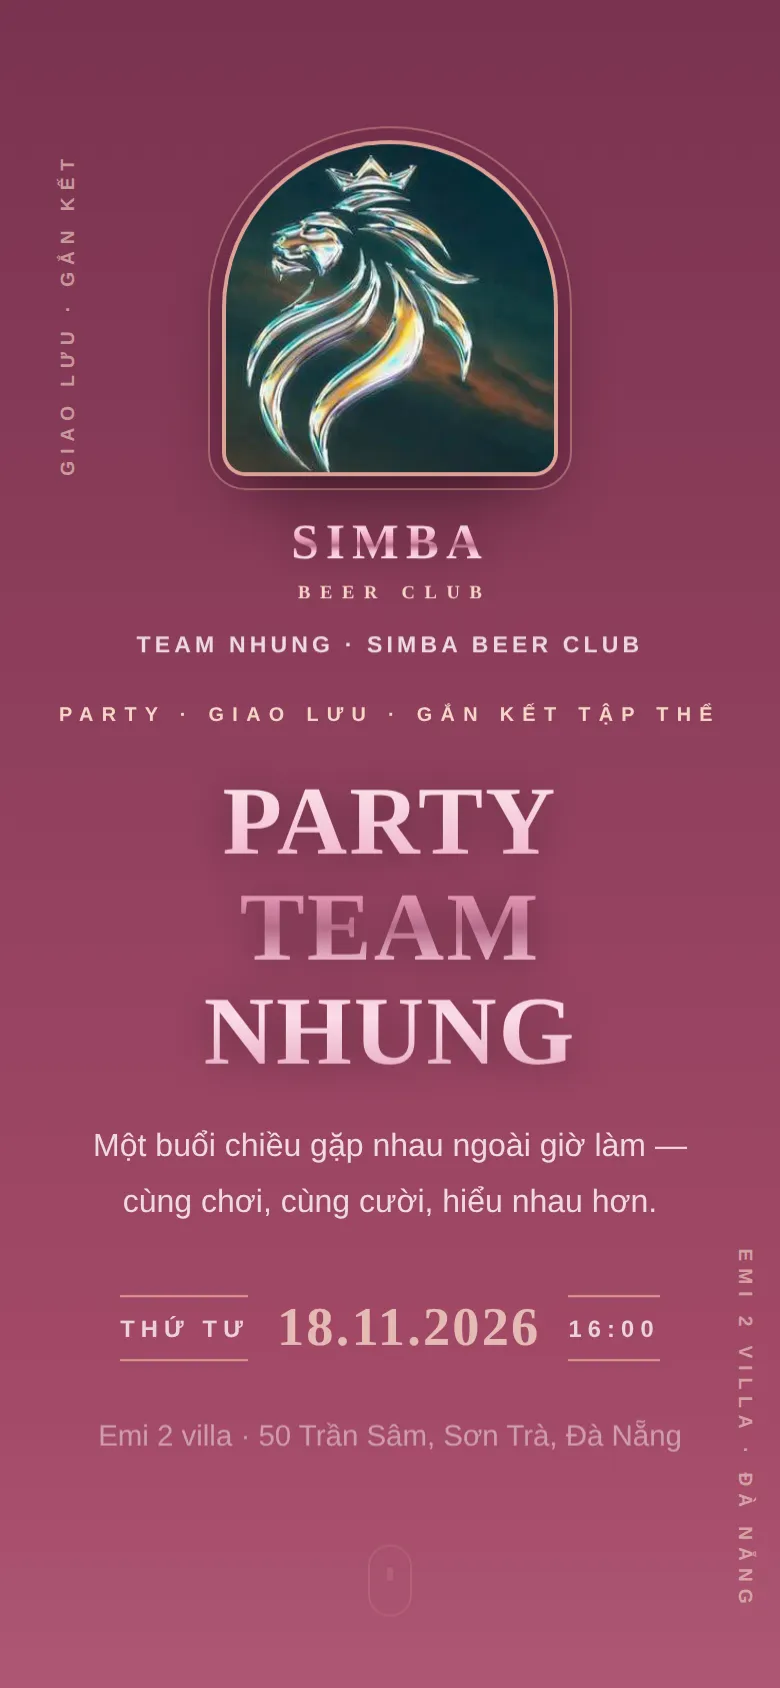
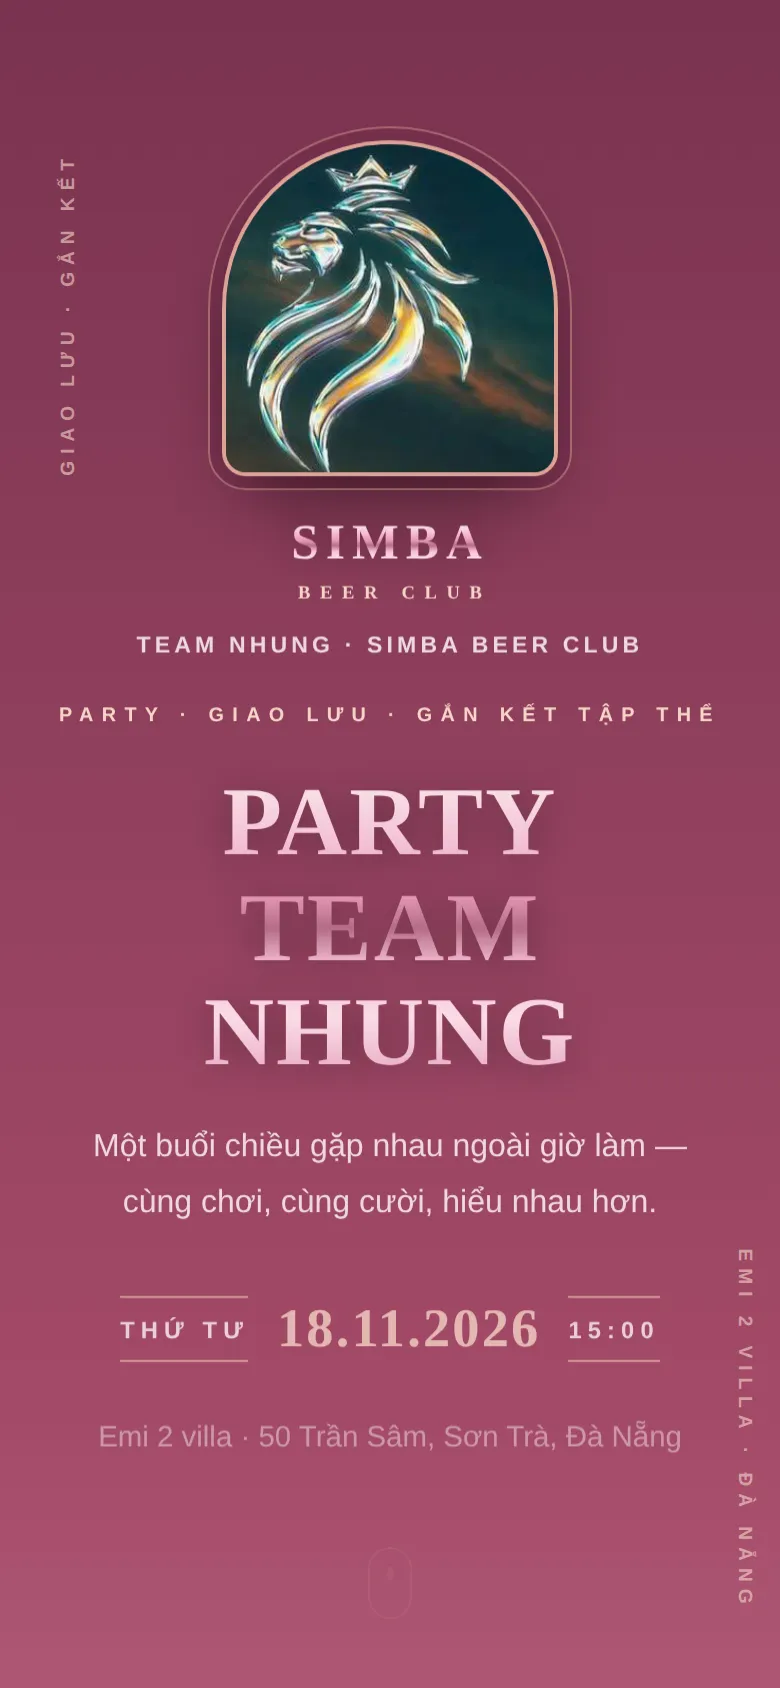
354: doi gio bat dau 16:00 -> 15:00 (ket thuc giu 18:00, chuong trinh giu nguyen), tang ?v=6, dung lai og-cover + shots

diff --git a/products/Invitation/Other/gen_354_party-team-nhung-hoang-hon-chrome/index.html b/products/Invitation/Other/gen_354_party-team-nhung-hoang-hon-chrome/index.html
@@ -4,19 +4,19 @@
 <meta charset="UTF-8">
 <meta name="viewport" content="width=device-width, initial-scale=1.0">
 <title>Party Team Nhung — Giao lưu gắn kết tập thể</title>
-<meta name="description" content="Trân trọng kính mời Quý khách đến dự Party Team Nhung (Simba Beer Club) — buổi giao lưu gắn kết tập thể, 16:00 Thứ Tư 18/11/2026 tại Emi 2 villa - 50 Trần Sâm, Sơn Trà, Đà Nẵng.">
+<meta name="description" content="Trân trọng kính mời Quý khách đến dự Party Team Nhung (Simba Beer Club) — buổi giao lưu gắn kết tập thể, 15:00 Thứ Tư 18/11/2026 tại Emi 2 villa - 50 Trần Sâm, Sơn Trà, Đà Nẵng.">
 <meta name="theme-color" content="#8e3a5c">
 <meta property="og:type" content="website">
 <meta property="og:site_name" content="Templexa">
 <meta property="og:title" content="Party Team Nhung — Giao lưu gắn kết tập thể">
-<meta property="og:description" content="Trân trọng kính mời Quý khách đến dự Party Team Nhung (Simba Beer Club) — 16:00 Thứ Tư 18/11/2026 tại Emi 2 villa - 50 Trần Sâm, Sơn Trà, Đà Nẵng.">
-<meta property="og:image" content="./og-cover.jpg?v=5">
+<meta property="og:description" content="Trân trọng kính mời Quý khách đến dự Party Team Nhung (Simba Beer Club) — 15:00 Thứ Tư 18/11/2026 tại Emi 2 villa - 50 Trần Sâm, Sơn Trà, Đà Nẵng.">
+<meta property="og:image" content="./og-cover.jpg?v=6">
 <meta property="og:image:width" content="1200">
 <meta property="og:image:height" content="630">
 <link rel="preconnect" href="https://fonts.googleapis.com">
 <link rel="preconnect" href="https://fonts.gstatic.com" crossorigin>
 <link href="https://fonts.googleapis.com/css2?family=Be+Vietnam+Pro:ital,wght@0,400;0,500;0,600;0,700;0,800;0,900;1,400;1,600&family=Playfair+Display:ital,wght@0,500;0,600;0,700;0,800;0,900;1,500;1,600;1,700&family=Quicksand:wght@400;500;600;700&display=swap" rel="stylesheet">
-<link rel="stylesheet" href="style.css?v=5">
+<link rel="stylesheet" href="style.css?v=6">
 </head>
 <body>
 
@@ -36,7 +36,7 @@
     <div class="letter">
       <p class="l-label">Party Invitation</p>
       <p class="l-names">Party Team Nhung</p>
-      <p class="l-date">18.11.2026 · 16:00</p>
+      <p class="l-date">18.11.2026 · 15:00</p>
     </div>
     <div class="pocket"></div>
     <div class="flap"></div>
@@ -60,7 +60,7 @@
   <p class="label hi" style="--d:.25s">Party · Giao lưu · Gắn kết tập thể</p>
   <h1 class="hero-title chrome-text hi" style="--d:.4s">PARTY<br>TEAM NHUNG</h1>
   <p class="hero-sub hi" style="--d:.55s">Một buổi chiều gặp nhau ngoài giờ làm —<br>cùng chơi, cùng cười, hiểu nhau hơn.</p>
-  <div class="hero-date hi" style="--d:.7s"><span>Thứ Tư</span><b>18.11.2026</b><span>16:00</span></div>
+  <div class="hero-date hi" style="--d:.7s"><span>Thứ Tư</span><b>18.11.2026</b><span>15:00</span></div>
   <p class="hero-place hi" style="--d:.85s">Emi 2 villa · 50 Trần Sâm, Sơn Trà, Đà Nẵng</p>
   <div class="hero-scroll hi" style="--d:1s" aria-hidden="true"></div>
 </section>
@@ -75,11 +75,11 @@
     <h3>Party Team Nhung</h3>
     <p class="place">Emi 2 villa</p>
     <p class="addr">50 Trần Sâm, Sơn Trà, Đà Nẵng</p>
-    <div class="ev-when"><span class="t">16:00</span><span class="sep"></span><span class="dd">18.11</span><span class="sep"></span><span class="t">Thứ Tư</span></div>
-    <p class="lunar">18 tháng 11 năm 2026 · 16:00 – 18:00</p>
+    <div class="ev-when"><span class="t">15:00</span><span class="sep"></span><span class="dd">18.11</span><span class="sep"></span><span class="t">Thứ Tư</span></div>
+    <p class="lunar">18 tháng 11 năm 2026 · 15:00 – 18:00</p>
     <div class="ev-btns">
       <a class="btn" href="https://www.google.com/maps/search/?api=1&amp;query=Emi%202%20villa%2C%2050%20Tr%E1%BA%A7n%20S%C3%A2m%2C%20S%C6%A1n%20Tr%C3%A0%2C%20%C4%90%C3%A0%20N%E1%BA%B5ng" target="_blank" rel="noopener"><svg viewBox="0 0 24 24" fill="none" stroke="currentColor" stroke-width="1.8" stroke-linecap="round" stroke-linejoin="round"><path d="M12 22s7-6.2 7-12a7 7 0 1 0-14 0c0 5.8 7 12 7 12z"/><circle cx="12" cy="10" r="2.6"/></svg> Chỉ đường</a>
-      <a class="btn btn-light" href="https://calendar.google.com/calendar/render?action=TEMPLATE&amp;text=Party%20Team%20Nhung%20%E2%80%93%20Giao%20l%C6%B0u%20g%E1%BA%AFn%20k%E1%BA%BFt%20t%E1%BA%ADp%20th%E1%BB%83&amp;dates=20261118T160000/20261118T180000&amp;ctz=Asia/Ho_Chi_Minh&amp;location=Emi%202%20villa%2C%2050%20Tr%E1%BA%A7n%20S%C3%A2m%2C%20S%C6%A1n%20Tr%C3%A0%2C%20%C4%90%C3%A0%20N%E1%BA%B5ng" target="_blank" rel="noopener"><svg viewBox="0 0 24 24" fill="none" stroke="currentColor" stroke-width="1.8" stroke-linecap="round"><rect x="3" y="5" width="18" height="16" rx="2"/><path d="M3 10h18M8 3v4M16 3v4"/></svg> Lưu vào lịch</a>
+      <a class="btn btn-light" href="https://calendar.google.com/calendar/render?action=TEMPLATE&amp;text=Party%20Team%20Nhung%20%E2%80%93%20Giao%20l%C6%B0u%20g%E1%BA%AFn%20k%E1%BA%BFt%20t%E1%BA%ADp%20th%E1%BB%83&amp;dates=20261118T150000/20261118T180000&amp;ctz=Asia/Ho_Chi_Minh&amp;location=Emi%202%20villa%2C%2050%20Tr%E1%BA%A7n%20S%C3%A2m%2C%20S%C6%A1n%20Tr%C3%A0%2C%20%C4%90%C3%A0%20N%E1%BA%B5ng" target="_blank" rel="noopener"><svg viewBox="0 0 24 24" fill="none" stroke="currentColor" stroke-width="1.8" stroke-linecap="round"><rect x="3" y="5" width="18" height="16" rx="2"/><path d="M3 10h18M8 3v4M16 3v4"/></svg> Lưu vào lịch</a>
     </div>
     <div class="map-frame"><iframe src="https://www.google.com/maps?q=Emi%202%20villa%2C%2050%20Tr%E1%BA%A7n%20S%C3%A2m%2C%20S%C6%A1n%20Tr%C3%A0%2C%20%C4%90%C3%A0%20N%E1%BA%B5ng&amp;output=embed" loading="lazy" referrerpolicy="no-referrer-when-downgrade" title="Bản đồ Emi 2 villa"></iframe></div>
   </article>
@@ -90,14 +90,14 @@
   <p class="label rv">Save The Date</p>
   <h2 class="title rv">Hẹn nhau<br>chiều thứ Tư</h2>
   <div class="cal rv-scale" id="calendar"></div>
-  <p class="cal-note rv">Thứ Tư · 18.11.2026 · 16:00<br>Emi 2 villa, Sơn Trà, Đà Nẵng</p>
+  <p class="cal-note rv">Thứ Tư · 18.11.2026 · 15:00<br>Emi 2 villa, Sơn Trà, Đà Nẵng</p>
   <div class="countdown" data-stagger=".12">
     <div class="cd-box rv"><b id="cdD">00</b><span>NGÀY</span></div>
     <div class="cd-box rv"><b id="cdH">00</b><span>GIỜ</span></div>
     <div class="cd-box rv"><b id="cdM">00</b><span>PHÚT</span></div>
     <div class="cd-box rv"><b id="cdS">00</b><span>GIÂY</span></div>
   </div>
-  <a class="btn btn-light rv" href="https://calendar.google.com/calendar/render?action=TEMPLATE&amp;text=Party%20Team%20Nhung%20%E2%80%93%20Giao%20l%C6%B0u%20g%E1%BA%AFn%20k%E1%BA%BFt%20t%E1%BA%ADp%20th%E1%BB%83&amp;dates=20261118T160000/20261118T180000&amp;ctz=Asia/Ho_Chi_Minh&amp;location=Emi%202%20villa%2C%2050%20Tr%E1%BA%A7n%20S%C3%A2m%2C%20S%C6%A1n%20Tr%C3%A0%2C%20%C4%90%C3%A0%20N%E1%BA%B5ng" target="_blank" rel="noopener"><svg viewBox="0 0 24 24" fill="none" stroke="currentColor" stroke-width="1.8" stroke-linecap="round"><rect x="3" y="5" width="18" height="16" rx="2"/><path d="M3 10h18M8 3v4M16 3v4"/></svg> Lưu vào lịch</a>
+  <a class="btn btn-light rv" href="https://calendar.google.com/calendar/render?action=TEMPLATE&amp;text=Party%20Team%20Nhung%20%E2%80%93%20Giao%20l%C6%B0u%20g%E1%BA%AFn%20k%E1%BA%BFt%20t%E1%BA%ADp%20th%E1%BB%83&amp;dates=20261118T150000/20261118T180000&amp;ctz=Asia/Ho_Chi_Minh&amp;location=Emi%202%20villa%2C%2050%20Tr%E1%BA%A7n%20S%C3%A2m%2C%20S%C6%A1n%20Tr%C3%A0%2C%20%C4%90%C3%A0%20N%E1%BA%B5ng" target="_blank" rel="noopener"><svg viewBox="0 0 24 24" fill="none" stroke="currentColor" stroke-width="1.8" stroke-linecap="round"><rect x="3" y="5" width="18" height="16" rx="2"/><path d="M3 10h18M8 3v4M16 3v4"/></svg> Lưu vào lịch</a>
 </section>
 
 <!-- ============ CÂU CHUYỆN ============ -->
@@ -183,7 +183,7 @@
     <p class="closing-club rv">SIMBA BEER CLUB</p>
     <p class="label rv">Hẹn gặp bạn</p>
     <p class="names rv">Hẹn gặp bạn tại Emi 2 villa</p>
-    <p class="msg rv">16:00 · Thứ Tư 18.11.2026 — mang theo nụ cười và tinh thần chơi hết mình nhé!</p>
+    <p class="msg rv">15:00 · Thứ Tư 18.11.2026 — mang theo nụ cười và tinh thần chơi hết mình nhé!</p>
     <a class="closing-brand" href="https://templexa.vn" target="_blank" rel="noopener">Made with ♥ by Templexa · <b>templexa.vn</b></a>
   </div>
 </section>
@@ -195,12 +195,12 @@
 <script>
   window.INVITE = {
     sheetId: 'khach_49', // phản hồi tham dự ghi vào tab khach_49 trong file 'data thiệp cưới'
-    countdown: '2026-11-18T16:00:00+07:00',
+    countdown: '2026-11-18T15:00:00+07:00',
     calendar: { year: 2026, month: 11, main: 18, others: [] },
     guests: {}
   };
 </script>
-<script src="../../../shared/wedding/wishes-api.js?v=5"></script>
-<script src="app.js?v=5"></script>
+<script src="../../../shared/wedding/wishes-api.js?v=6"></script>
+<script src="app.js?v=6"></script>
 </body>
 </html>

diff --git a/event/party-team-nhung/index.html b/event/party-team-nhung/index.html
@@ -9,8 +9,8 @@
     <!-- OG Meta — Facebook, Zalo, Messenger preview -->
     <meta property="og:type" content="website">
     <meta property="og:title" content="Party Team Nhung — Thiệp Mời Party">
-    <meta property="og:description" content="Trân trọng kính mời bạn đến dự Party Team Nhung (Simba Beer Club) — 16:00 Thứ Tư 18/11/2026 tại Emi 2 villa, 50 Trần Sâm, Sơn Trà, Đà Nẵng">
-    <meta property="og:image" content="https://templexa.vn/products/Invitation/Other/gen_354_party-team-nhung-hoang-hon-chrome/og-cover.jpg?v=5">
+    <meta property="og:description" content="Trân trọng kính mời bạn đến dự Party Team Nhung (Simba Beer Club) — 15:00 Thứ Tư 18/11/2026 tại Emi 2 villa, 50 Trần Sâm, Sơn Trà, Đà Nẵng">
+    <meta property="og:image" content="https://templexa.vn/products/Invitation/Other/gen_354_party-team-nhung-hoang-hon-chrome/og-cover.jpg?v=6">
     <meta property="og:image:width" content="1200">
     <meta property="og:image:height" content="630">
     <meta property="og:url" content="https://templexa.vn/event/party-team-nhung/">
@@ -22,10 +22,10 @@
         html, body { width: 100%; height: 100%; overflow: hidden; position: fixed; }
         iframe { position: fixed; top: 0; left: 0; width: 100%; height: 100%; border: none; }
     </style>
-    <meta name="description" content="Trân trọng kính mời bạn đến dự Party Team Nhung (Simba Beer Club) — 16:00 Thứ Tư 18/11/2026 tại Emi 2 villa, 50 Trần Sâm, Sơn Trà, Đà Nẵng">
+    <meta name="description" content="Trân trọng kính mời bạn đến dự Party Team Nhung (Simba Beer Club) — 15:00 Thứ Tư 18/11/2026 tại Emi 2 villa, 50 Trần Sâm, Sơn Trà, Đà Nẵng">
     <meta name="twitter:title" content="Party Team Nhung — Thiệp Mời Party">
-    <meta name="twitter:description" content="Trân trọng kính mời bạn đến dự Party Team Nhung (Simba Beer Club) — 16:00 Thứ Tư 18/11/2026 tại Emi 2 villa, 50 Trần Sâm, Sơn Trà, Đà Nẵng">
-    <meta name="twitter:image" content="https://templexa.vn/products/Invitation/Other/gen_354_party-team-nhung-hoang-hon-chrome/og-cover.jpg?v=5">
+    <meta name="twitter:description" content="Trân trọng kính mời bạn đến dự Party Team Nhung (Simba Beer Club) — 15:00 Thứ Tư 18/11/2026 tại Emi 2 villa, 50 Trần Sâm, Sơn Trà, Đà Nẵng">
+    <meta name="twitter:image" content="https://templexa.vn/products/Invitation/Other/gen_354_party-team-nhung-hoang-hon-chrome/og-cover.jpg?v=6">
 </head>
 <body>
     <iframe id="f" allowfullscreen allow="autoplay"></iframe>
@@ -38,9 +38,9 @@
             if (entry) {
                 var base = location.pathname.replace(/\/event\/[^/]+\/.*$/, '/');
                 var fullSrc = base + entry.src.replace(/^\.\.\/\.\.\//,'');
-                // Gan ?v=5 de dien thoai da mo ban cu phai tai ban moi (cache 4h),
+                // Gan ?v=6 de dien thoai da mo ban cu phai tai ban moi (cache 4h),
                 // dong thoi chuyen tiep ?ten= cho khach.
-                var q = location.search ? location.search.replace(/^\?/, '?v=5&') : '?v=5';
+                var q = location.search ? location.search.replace(/^\?/, '?v=6&') : '?v=6';
                 document.getElementById('f').src = fullSrc + q + location.hash;
             } else {
                 document.body.innerHTML = '<p style="text-align:center;padding:40px;font-family:sans-serif;color:#666">Không tìm thấy thiệp. Vui lòng kiểm tra lại đường dẫn.</p>';

diff --git a/assets/js/data.js b/assets/js/data.js
@@ -7428,7 +7428,7 @@ const PRODUCTS = [
         id: 354,
         name: 'Thiệp Party Team Nhung — Hồng Pastel Simba',
         slug: 'thiep-party-team-nhung-hoang-hon-chrome',
-        description: 'Thiệp mời party giao lưu gắn kết tập thể Team Nhung (Simba Beer Club): phong bì lockup SIMBA BEER CLUB với sư tử đội vương miện, nền hồng pastel, chữ chrome hồng ánh kim, đếm ngược + lịch tháng 11, câu chuyện 3 chương Gặp gỡ – Đồng hành – Gắn kết, chương trình dự kiến, form xác nhận tham dự chép tay gửi lại ban tổ chức. 16:00 Thứ Tư 18/11/2026 tại Emi 2 villa, Đà Nẵng.',
+        description: 'Thiệp mời party giao lưu gắn kết tập thể Team Nhung (Simba Beer Club): phong bì lockup SIMBA BEER CLUB với sư tử đội vương miện, nền hồng pastel, chữ chrome hồng ánh kim, đếm ngược + lịch tháng 11, câu chuyện 3 chương Gặp gỡ – Đồng hành – Gắn kết, chương trình dự kiến, form xác nhận tham dự chép tay gửi lại ban tổ chức. 15:00 Thứ Tư 18/11/2026 tại Emi 2 villa, Đà Nẵng.',
         category: 'other',
         type: 'invitation',
         style: 'luxury',
@@ -7443,7 +7443,7 @@ const PRODUCTS = [
         thumbnail: './products/Invitation/Other/gen_354_party-team-nhung-hoang-hon-chrome/og-cover.jpg',
         mobileView: './products/Invitation/Other/gen_354_party-team-nhung-hoang-hon-chrome/shots/open.webp',
         path: './products/Invitation/Other/gen_354_party-team-nhung-hoang-hon-chrome/',
-        demoUrl: './products/Invitation/Other/gen_354_party-team-nhung-hoang-hon-chrome/index.html?v=5',
+        demoUrl: './products/Invitation/Other/gen_354_party-team-nhung-hoang-hon-chrome/index.html?v=6',
         variants: [],
         features: [
             'Phong bì lockup SIMBA BEER CLUB với sư tử đội vương miện, nền hồng pastel với chữ chrome hồng ánh kim',

diff --git a/event/config.js b/event/config.js
@@ -82,7 +82,7 @@ var EVENT = {
     'party-team-nhung': {
         src: '../../products/Invitation/Other/gen_354_party-team-nhung-hoang-hon-chrome/index.html',
         title: 'Party Team Nhung — Thiệp Mời Party',
-        description: 'Trân trọng kính mời bạn đến dự Party Team Nhung (Simba Beer Club) — 16:00 Thứ Tư 18/11/2026 tại Emi 2 villa, 50 Trần Sâm, Sơn Trà, Đà Nẵng',
-        image: '../../products/Invitation/Other/gen_354_party-team-nhung-hoang-hon-chrome/og-cover.jpg?v=5',
+        description: 'Trân trọng kính mời bạn đến dự Party Team Nhung (Simba Beer Club) — 15:00 Thứ Tư 18/11/2026 tại Emi 2 villa, 50 Trần Sâm, Sơn Trà, Đà Nẵng',
+        image: '../../products/Invitation/Other/gen_354_party-team-nhung-hoang-hon-chrome/og-cover.jpg?v=6',
     },
 };

diff --git a/products/Invitation/Other/gen_354_party-team-nhung-hoang-hon-chrome/og-cover.html b/products/Invitation/Other/gen_354_party-team-nhung-hoang-hon-chrome/og-cover.html
@@ -84,7 +84,7 @@
     <p class="label">Party · Giao lưu · Gắn kết tập thể</p>
     <h1>PARTY<br>TEAM NHUNG</h1>
     <p class="sub">Một buổi chiều gặp nhau ngoài giờ làm —<br>cùng chơi, cùng cười, hiểu nhau hơn.</p>
-    <p class="date">16:00 · Thứ Tư 18.11.2026 · Emi 2 villa, Đà Nẵng</p>
+    <p class="date">15:00 · Thứ Tư 18.11.2026 · Emi 2 villa, Đà Nẵng</p>
   </div>
   <div class="brand">templexa.vn</div>
 </div>
